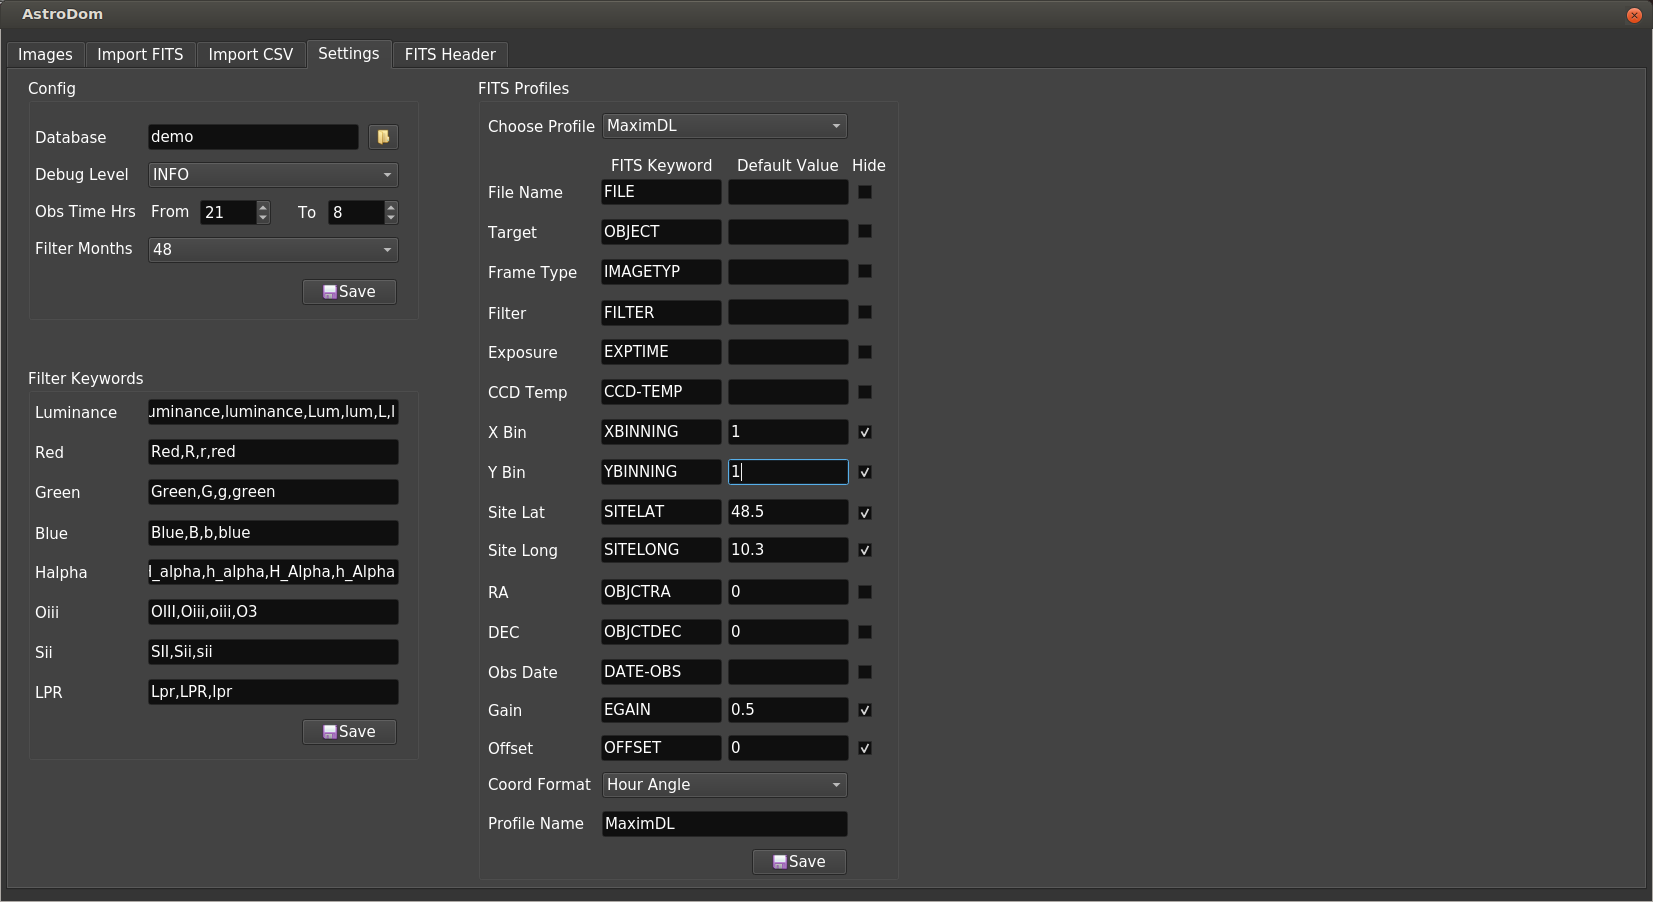
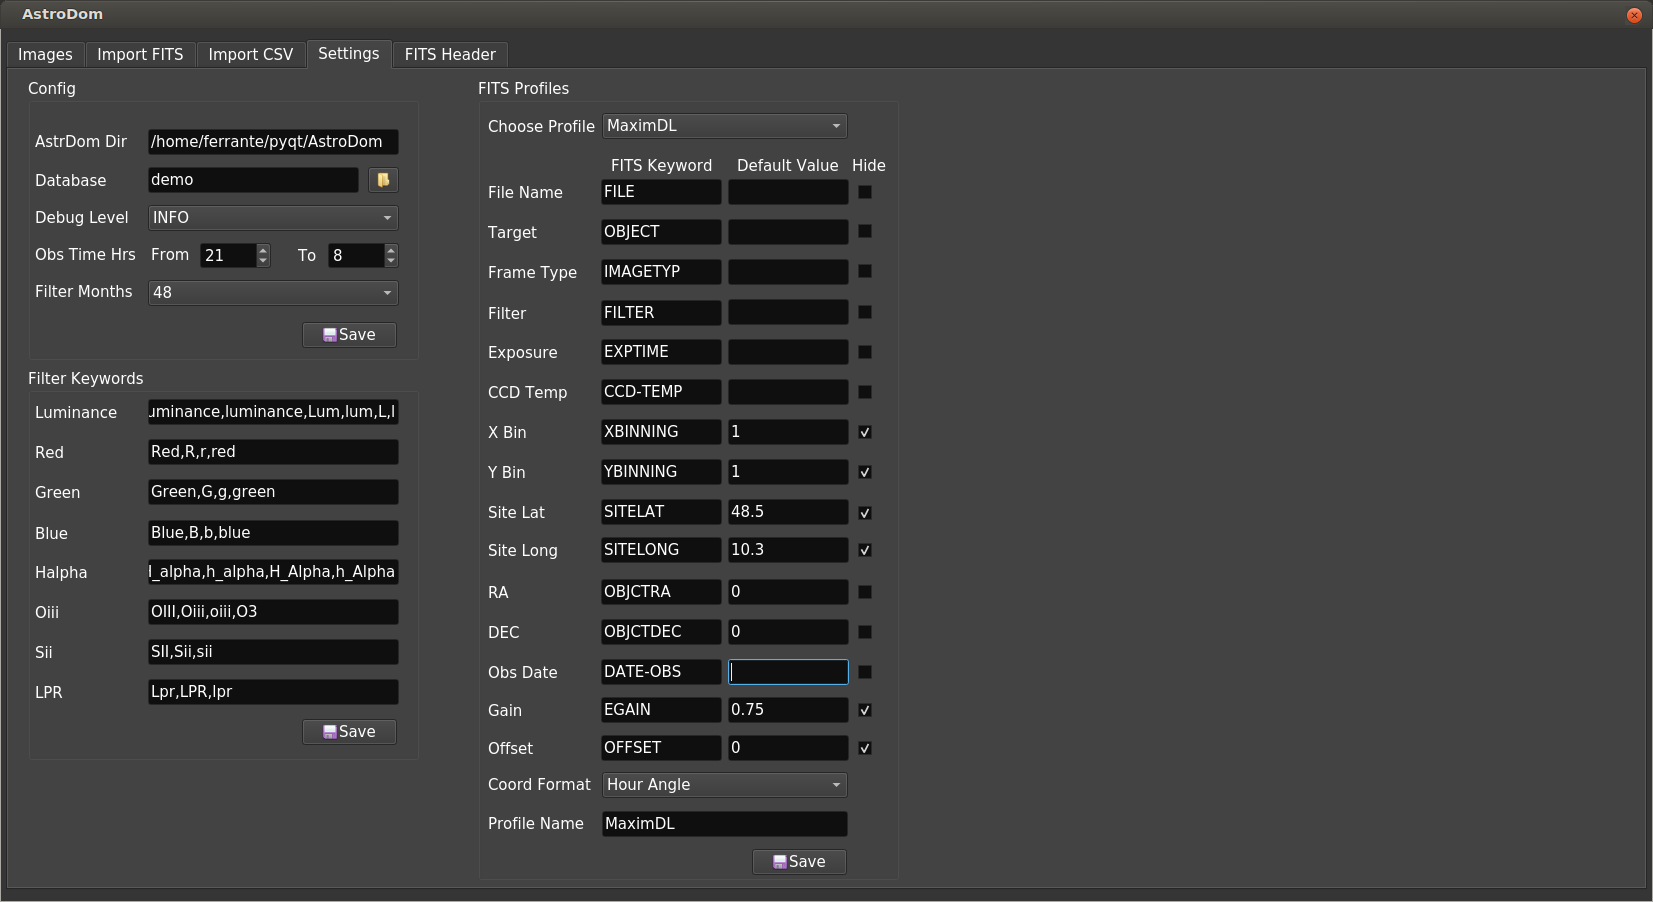
docs and install scripts

Changed region(s): [[0.0, 0.1242, 0.2468, 0.4035]]

diff --git a/astrodom/gui/mainWindowGui.py b/astrodom/gui/mainWindowGui.py
@@ -554,17 +554,17 @@ class Ui_Dialog(object):
         self.checkBoxFitsDate.setIconSize(QtCore.QSize(16, 16))
         self.checkBoxFitsDate.setObjectName("checkBoxFitsDate")
         self.groupBox_4 = QtWidgets.QGroupBox(self.tabSettings)
-        self.groupBox_4.setGeometry(QtCore.QRect(20, 10, 391, 241))
+        self.groupBox_4.setGeometry(QtCore.QRect(20, 10, 391, 281))
         self.groupBox_4.setObjectName("groupBox_4")
         self.labelDbname = QtWidgets.QLabel(self.groupBox_4)
-        self.labelDbname.setGeometry(QtCore.QRect(7, 49, 91, 20))
+        self.labelDbname.setGeometry(QtCore.QRect(7, 92, 91, 20))
         self.labelDbname.setObjectName("labelDbname")
         self.lineEditDbname = QtWidgets.QLineEdit(self.groupBox_4)
-        self.lineEditDbname.setGeometry(QtCore.QRect(120, 45, 211, 26))
+        self.lineEditDbname.setGeometry(QtCore.QRect(120, 88, 211, 26))
         self.lineEditDbname.setText("")
         self.lineEditDbname.setObjectName("lineEditDbname")
         self.comboBoxDebug = QtWidgets.QComboBox(self.groupBox_4)
-        self.comboBoxDebug.setGeometry(QtCore.QRect(120, 83, 251, 26))
+        self.comboBoxDebug.setGeometry(QtCore.QRect(120, 126, 251, 26))
         self.comboBoxDebug.setObjectName("comboBoxDebug")
         self.comboBoxDebug.addItem("")
         self.comboBoxDebug.addItem("")
@@ -572,45 +572,52 @@ class Ui_Dialog(object):
         self.comboBoxDebug.addItem("")
         self.comboBoxDebug.addItem("")
         self.label = QtWidgets.QLabel(self.groupBox_4)
-        self.label.setGeometry(QtCore.QRect(7, 87, 101, 18))
+        self.label.setGeometry(QtCore.QRect(7, 130, 101, 18))
         self.label.setObjectName("label")
         self.labelDefaultTime = QtWidgets.QLabel(self.groupBox_4)
-        self.labelDefaultTime.setGeometry(QtCore.QRect(7, 124, 111, 18))
+        self.labelDefaultTime.setGeometry(QtCore.QRect(7, 167, 111, 18))
         self.labelDefaultTime.setObjectName("labelDefaultTime")
         self.spinBoxDefaultTimeStart = QtWidgets.QSpinBox(self.groupBox_4)
-        self.spinBoxDefaultTimeStart.setGeometry(QtCore.QRect(172, 120, 71, 27))
+        self.spinBoxDefaultTimeStart.setGeometry(QtCore.QRect(172, 163, 71, 27))
         self.spinBoxDefaultTimeStart.setMaximum(24)
         self.spinBoxDefaultTimeStart.setProperty("value", 20)
         self.spinBoxDefaultTimeStart.setObjectName("spinBoxDefaultTimeStart")
         self.spinBoxDefaultTimeEnd = QtWidgets.QSpinBox(self.groupBox_4)
-        self.spinBoxDefaultTimeEnd.setGeometry(QtCore.QRect(300, 120, 71, 27))
+        self.spinBoxDefaultTimeEnd.setGeometry(QtCore.QRect(300, 163, 71, 27))
         self.spinBoxDefaultTimeEnd.setMaximum(24)
         self.spinBoxDefaultTimeEnd.setProperty("value", 8)
         self.spinBoxDefaultTimeEnd.setObjectName("spinBoxDefaultTimeEnd")
         self.pushButtonSelectDb = QtWidgets.QPushButton(self.groupBox_4)
-        self.pushButtonSelectDb.setGeometry(QtCore.QRect(340, 45, 31, 26))
+        self.pushButtonSelectDb.setGeometry(QtCore.QRect(340, 88, 31, 26))
         self.pushButtonSelectDb.setText("")
         self.pushButtonSelectDb.setObjectName("pushButtonSelectDb")
         self.pushButtonSaveConfig = QtWidgets.QPushButton(self.groupBox_4)
-        self.pushButtonSaveConfig.setGeometry(QtCore.QRect(274, 200, 95, 26))
+        self.pushButtonSaveConfig.setGeometry(QtCore.QRect(274, 243, 95, 26))
         self.pushButtonSaveConfig.setObjectName("pushButtonSaveConfig")
         self.label_5 = QtWidgets.QLabel(self.groupBox_4)
-        self.label_5.setGeometry(QtCore.QRect(123, 124, 51, 18))
+        self.label_5.setGeometry(QtCore.QRect(123, 167, 51, 18))
         self.label_5.setObjectName("label_5")
         self.label_6 = QtWidgets.QLabel(self.groupBox_4)
-        self.label_6.setGeometry(QtCore.QRect(270, 125, 31, 18))
+        self.label_6.setGeometry(QtCore.QRect(270, 168, 31, 18))
         self.label_6.setObjectName("label_6")
         self.labelMonthsFilter = QtWidgets.QLabel(self.groupBox_4)
-        self.labelMonthsFilter.setGeometry(QtCore.QRect(7, 161, 111, 18))
+        self.labelMonthsFilter.setGeometry(QtCore.QRect(7, 204, 111, 18))
         self.labelMonthsFilter.setObjectName("labelMonthsFilter")
         self.comboBoxMonthsFilter = QtWidgets.QComboBox(self.groupBox_4)
-        self.comboBoxMonthsFilter.setGeometry(QtCore.QRect(120, 158, 251, 26))
+        self.comboBoxMonthsFilter.setGeometry(QtCore.QRect(120, 201, 251, 26))
         self.comboBoxMonthsFilter.setObjectName("comboBoxMonthsFilter")
         self.comboBoxMonthsFilter.addItem("")
         self.comboBoxMonthsFilter.addItem("")
         self.comboBoxMonthsFilter.addItem("")
         self.comboBoxMonthsFilter.addItem("")
         self.comboBoxMonthsFilter.addItem("")
+        self.lineEditModuleDir = QtWidgets.QLineEdit(self.groupBox_4)
+        self.lineEditModuleDir.setGeometry(QtCore.QRect(120, 50, 251, 26))
+        self.lineEditModuleDir.setReadOnly(True)
+        self.lineEditModuleDir.setObjectName("lineEditModuleDir")
+        self.label_7 = QtWidgets.QLabel(self.groupBox_4)
+        self.label_7.setGeometry(QtCore.QRect(7, 54, 101, 18))
+        self.label_7.setObjectName("label_7")
         self.groupBox_5 = QtWidgets.QGroupBox(self.tabSettings)
         self.groupBox_5.setGeometry(QtCore.QRect(20, 300, 391, 391))
         self.groupBox_5.setObjectName("groupBox_5")
@@ -711,7 +718,7 @@ class Ui_Dialog(object):
         self.tabWidget.addTab(self.fitsHeaderTab, "")
 
         self.retranslateUi(Dialog)
-        self.tabWidget.setCurrentIndex(0)
+        self.tabWidget.setCurrentIndex(3)
         QtCore.QMetaObject.connectSlotsByName(Dialog)
 
     def retranslateUi(self, Dialog):
@@ -836,6 +843,7 @@ class Ui_Dialog(object):
         self.comboBoxMonthsFilter.setItemText(2, _translate("Dialog", "12"))
         self.comboBoxMonthsFilter.setItemText(3, _translate("Dialog", "24"))
         self.comboBoxMonthsFilter.setItemText(4, _translate("Dialog", "48"))
+        self.label_7.setText(_translate("Dialog", "AstrDom Dir"))
         self.groupBox_5.setTitle(_translate("Dialog", "Filter Keywords"))
         self.labelFilterR.setText(_translate("Dialog", "Red"))
         self.labelFilterL.setText(_translate("Dialog", "Luminance"))

diff --git a/astrodom/mainWindow.py b/astrodom/mainWindow.py
@@ -68,7 +68,8 @@ class MainWindow(QDialog):
         self.ui.groupBoxFitsHeader.setTitle(
             "Fits file header parser (profile: " + self.app.config["profile"] + ")"
         )
-        # Setting tab connetcs
+        # Setting tab
+        self.ui.lineEditModuleDir.setText(self.app.astrodomDir)
         self.ui.pushButtonSaveFilter.clicked.connect(self.settingsTab.saveFilter)
         self.ui.pushButtonSaveConfig.clicked.connect(self.settingsTab.saveConfig)
         self.ui.pushButtonSaveProfile.clicked.connect(self.settingsTab.saveProfile)

diff --git a/astrodom/settingsTab.py b/astrodom/settingsTab.py
@@ -187,7 +187,7 @@ class SettingsTab:
         dbName, _ = QFileDialog.getOpenFileName(
             self.mainW,
             "Select a SQLite file to open…",
-            QtCore.QDir.homePath(),
+            os.path.join(self.app.directory, "config"),
             "SQLite Files (*.db) ;; All Files (*)",
         )
         if dbName:

diff --git a/astrodom/astroDom.py b/astrodom/astroDom.py
@@ -24,6 +24,7 @@ classes it is referenced as 'app'.
 
 
 class AstroDom:
+    astrodomDir = os.getcwd()
     directory = os.path.dirname(__file__)
     with open(os.path.join(directory, "config", "config.json"), "r") as config:
         config = json.load(config)

diff --git a/docs/install.md b/docs/install.md
@@ -1,0 +1,66 @@
+# Installation
+## Requirements
+AstroDom is developed using Python's QT bindings (PyQT) and thus can be installed on Linux, Windows and MacOS platforms.
+AstrDom is all about presenting data, so it needs high definition displays (1920x1080). 
+FITS header data are read from astro imaging software like Astro Photography Tool, Sequence Generator Pro, BackyardEOS, MaximDL, Nebulosity, N.I.N.A., CCDCiel and INDI/Ekos. All these softwares are supported even though it has been tested extensively on INDI/Ekos and MaximDL only.
+
+## Install Python and Venv
+Setting up a Python Virtual Environment is recommended not to mess up your other Python apps.  
+Installation of Python and venv is not the main purpose of this document; you can search for many resource that have step by step instruction for your platform.
+On a terminal window check  which Python and Virtualenv are installed.
+
+    python --version
+    virtualenv --version
+  
+  AstroDom requires Python version 3.6 or 3.7. It is not (yet) tested on 3.8 or above.
+
+## Install AstroDom
+To install AstroDom, create a directory on your system where you will store AstroDom's file. 
+Any name is ok, but let's say '**astrodom**'. 
+Download one of the following script to 'astrodom':
+
+Linux: https://github.com/fenriques/resources/astrodom_linux_install.sh
+Windows: https://github.com/fenriques/resources/astrodom_windows_install.bat
+
+Run the script from the terminal. The script is automating the following steps that you can enter manually if you prefer:
+On Linux:
+
+	cd astrodom
+    python3 -m venv venv
+    source ./venv/bin/activate
+    pip3 install astrodom --upgrade --no-cache-dir
+  
+  On Windows:
+ 
+
+     cd astrodom
+     venv\Scripts\activate
+     python -m pip install astrodom --upgrade --no-cache-dir
+     
+## Run AstroDom
+ Download one of the following script to 'astrodom':
+
+Linux: https://github.com/fenriques/resources/astrodom_linux_run.sh
+Windows: https://github.com/fenriques/resources/astrodom_windows_run.bat
+
+Run the script from the terminal. Else follow these steps:
+On Linux:
+
+    cd astrodom
+    source ./venv/bin/activate
+    cd ./venv/lib/python3.7/site-packages
+    python -m astrodom
+
+On Windows:
+
+    cd astrodom
+    venv\Scripts\activate 
+    cd venv\Lib\site-packages
+    python -m astrodom
+
+
+
+
+
+
+

diff --git a/docs/settings.md b/docs/settings.md
@@ -8,6 +8,8 @@ Here you can configure AstroDom settings using these three boxes:
 ![Settings Tab](settings.png?raw=true)
 
 ## Config 
+- **AstroDom Dir**: prints the path where AstroDom is installed. Knowing the directory is useful when you have to select a  database .db file or access logs.
+ 
 
 - **Database**: is the name of your local AstroDom storage  based on a SQLite rdbms. Db files (with .db extension) are located in /astrodom/config directory.
 Entering a text in the form will create a new database; you can have as many databases as you want and this will help organizing your data. AstroDom has been tested with thousands of records. But if you see filters and searches slowing down it could be the case of segregate some data in a new database. 
